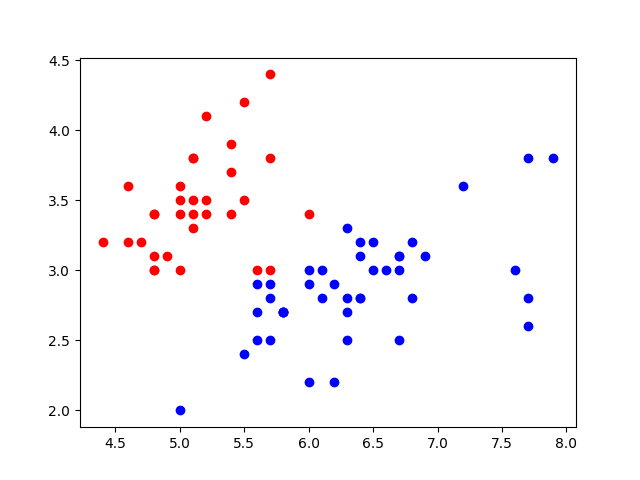
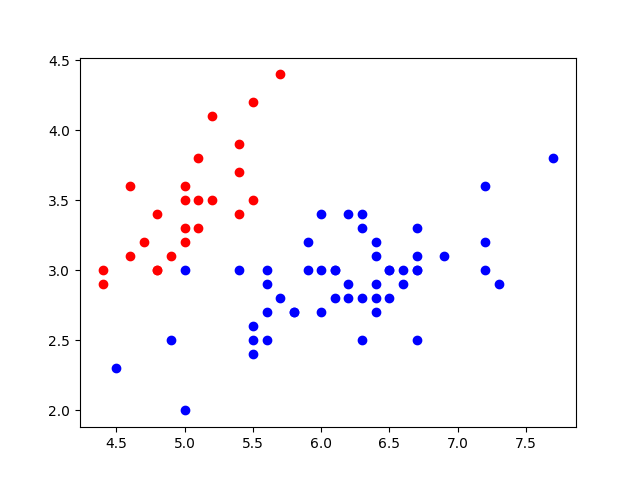
Updated: <perceptron.py> - using data without sklearn module

diff --git a/test_perceptron.py b/test_perceptron.py
@@ -1,44 +1,34 @@
-import numpy as np
-from sklearn.datasets import load_iris
-from sklearn.model_selection import train_test_split
-from perceptron import Perceptron,line,folder
+from perceptron import Perceptron,FOLDER
+#from sklearndata import x_train,y_train,x_test,y_test
+from cldset import x_train,y_train,x_test,y_test
 import matplotlib.pyplot as plt
+import numpy as np
 import os
 
-if not os.path.isdir(folder):
-    os.mkdir(folder)
+if not os.path.isdir(FOLDER):
+    os.mkdir(FOLDER)
 
-def get_data_info():
-    iris = load_iris()
-    x = iris.data[:,(0,1)]
-    y = (iris.target == 0).astype(np.int_)
-    x_train,x_test,y_train,y_test = train_test_split(x,y,test_size=0.5,random_state=42)
-    for axis,group in zip(x_train,y_train):
-        if group:
-            color = 'ro'
-        else:
-            color = 'bo'
-        plt.plot(axis[0],axis[1],color)
-    plt.savefig('{}/training_data'.format(folder))
-    plt.clf()
-    for axis in x_test:
-        plt.plot(axis[0],axis[1],'ro')
-        plt.savefig('{}/test_data'.format(folder))
-
-    return x_train,x_test,y_train,y_test
+def plot_data(fig_name,x_train=None,y_train=None,x_test=None):
+    if isinstance(x_test,np.ndarray):
+        plt.clf()
+        for axis in x_test:
+            plt.plot(axis[0],axis[1],'ro')
+        plt.savefig('{}/{}'.format(FOLDER,fig_name))
+    if isinstance(x_train,np.ndarray) and isinstance(y_train,np.ndarray):
+        plt.clf()
+        for axis,group in zip(x_train,y_train):
+            if group:
+                color = 'ro'
+            else:
+                color = 'bo'
+            plt.plot(axis[0],axis[1],color)
+        plt.savefig('{}/{}'.format(FOLDER,fig_name))
 
 if __name__ == '__main__':
-    x_train,x_test,y_train,y_test = get_data_info()
+    print('>> [*] start data preparation')
+    plot_data('train_data',x_train=x_train,y_train=y_train)
+    plot_data('test_data',x_test=x_test)
     perceptron = Perceptron(0.001,100)
     perceptron.fit(x_train,y_train)
     y_pred = perceptron.predict(x_test)
-    plt.clf()
-    for axis,group in zip(x_test,y_pred):
-        if group:
-            color = 'ro'
-        else:
-            color = 'bo'
-        plt.plot(axis[0],axis[1],color)
-        plt.savefig('{}/prediction'.format(folder))
-    plt.clf()
-    line()
+    plot_data('prediction',x_test,y_pred)

diff --git a/perceptron.py b/perceptron.py
@@ -11,14 +11,15 @@ import os
 
 }}}
 """
-folder='images'
+FOLDER='images'
 try:
-    os.mkdir(folder)
+    os.mkdir(FOLDER)
 except:
     pass
 
 def line():
 #{{{
+    plt.clf()
     # x vector
     x = list(range(10))
     p1 = 3.5 # coordinate a of a point.
@@ -38,7 +39,7 @@ def line():
         y.append(val*m)
 
     plt.plot(x,y) #plot the line
-    plt.savefig('{}/line'.format(folder))
+    plt.savefig('{}/line'.format(FOLDER))
 #}}}
 
 class Perceptron:

diff --git a/sklearndata.py b/sklearndata.py
@@ -1,0 +1,9 @@
+from sklearn.datasets import load_iris
+from sklearn.model_selection import train_test_split
+import numpy as np
+
+iris = load_iris()
+x = iris.data[:,(0,1)]
+y = (iris.target == 0).astype(np.int_)
+x_train,x_test,y_train,y_test = train_test_split(x,y,test_size=0.5,random_state=0)
+
